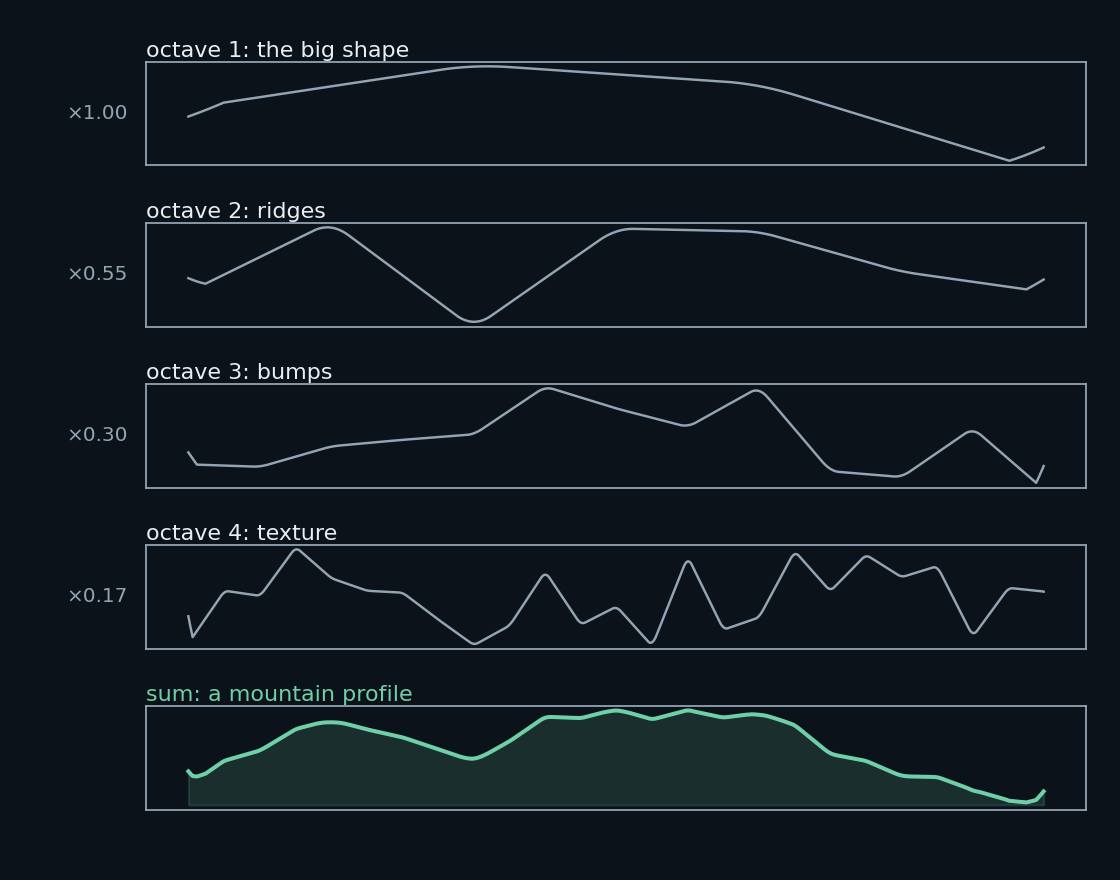
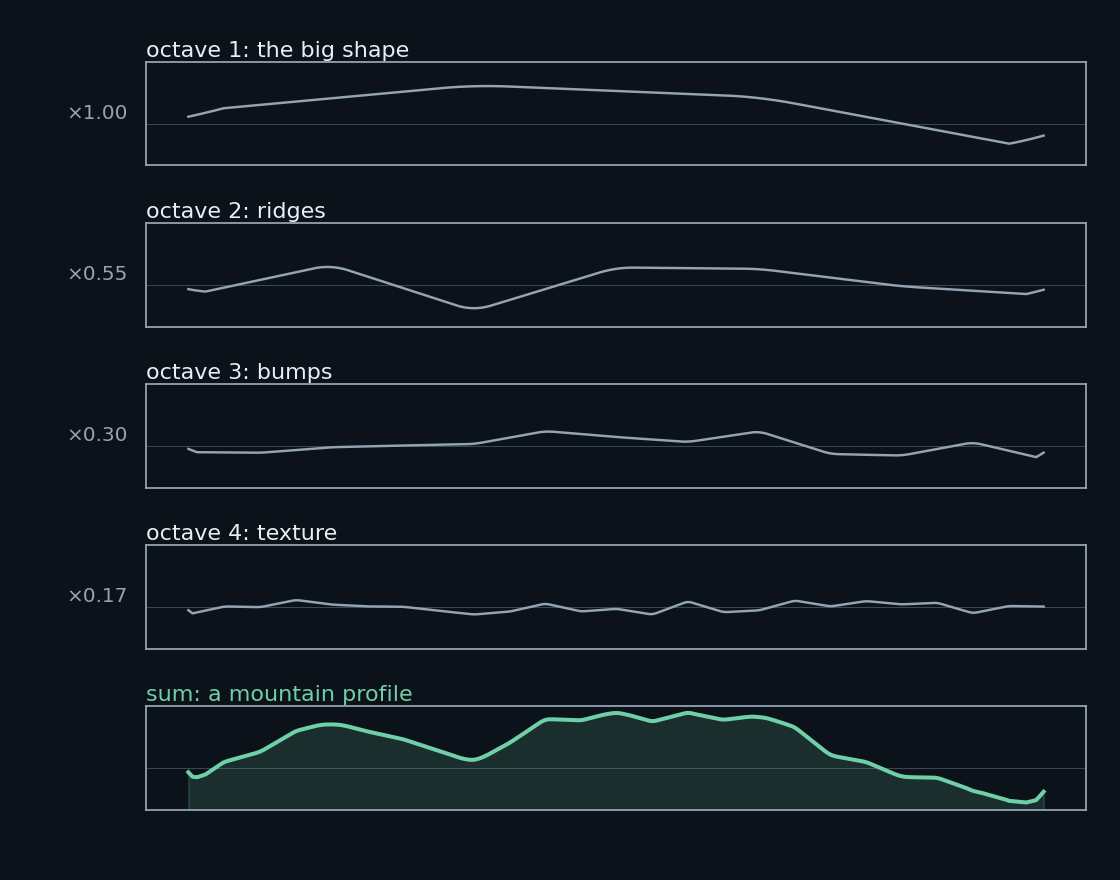
shared y-scale for octave diagram

diff --git a/scripts/make_diagrams.py b/scripts/make_diagrams.py
@@ -47,18 +47,27 @@ def octave_stack():
     octaves = [smooth_noise(f) * 0.55 ** i for i, f in enumerate([3, 6, 12, 24])]
     total = sum(octaves)
 
+    # one shared y-scale: each octave must visibly shrink vs the last,
+    # and the sum visibly towers over them all
+    pad = (total.max() - total.min()) * 0.08
+    lo, hi = total.min() - pad, total.max() + pad
+
     fig, axes = plt.subplots(5, 1, figsize=(7, 5.5), sharex=True)
     fig.subplots_adjust(hspace=0.55, left=0.13, right=0.97, top=0.93, bottom=0.08)
     labels = ["octave 1: the big shape", "octave 2: ridges",
               "octave 3: bumps", "octave 4: texture", "sum: a mountain profile"]
     for i, (ax, o) in enumerate(zip(axes[:4], octaves)):
+        ax.set_ylim(lo, hi)
+        ax.axhline(0, color=DIM, lw=0.4, alpha=0.4)
         ax.plot(x, o, color=DIM, lw=1.1)
         ax.set_ylabel(f"×{0.55**i:.2f}", rotation=0, labelpad=22,
                       va="center", color=DIM, fontsize=9)
         ax.set_title(labels[i], fontsize=10, color=INK, loc="left", pad=2)
         ax.set_yticks([]); ax.set_xticks([])
+    axes[4].set_ylim(lo, hi)
+    axes[4].axhline(0, color=DIM, lw=0.4, alpha=0.4)
     axes[4].plot(x, total, color=ACCENT, lw=1.8)
-    axes[4].fill_between(x, total, total.min() - 0.05, color=ACCENT, alpha=0.15)
+    axes[4].fill_between(x, total, lo, color=ACCENT, alpha=0.15)
     axes[4].set_title(labels[4], fontsize=10, color=ACCENT, loc="left", pad=2)
     axes[4].set_yticks([]); axes[4].set_xticks([])
     fig.savefig(fig_path("fbm_octaves.png"), dpi=160)
